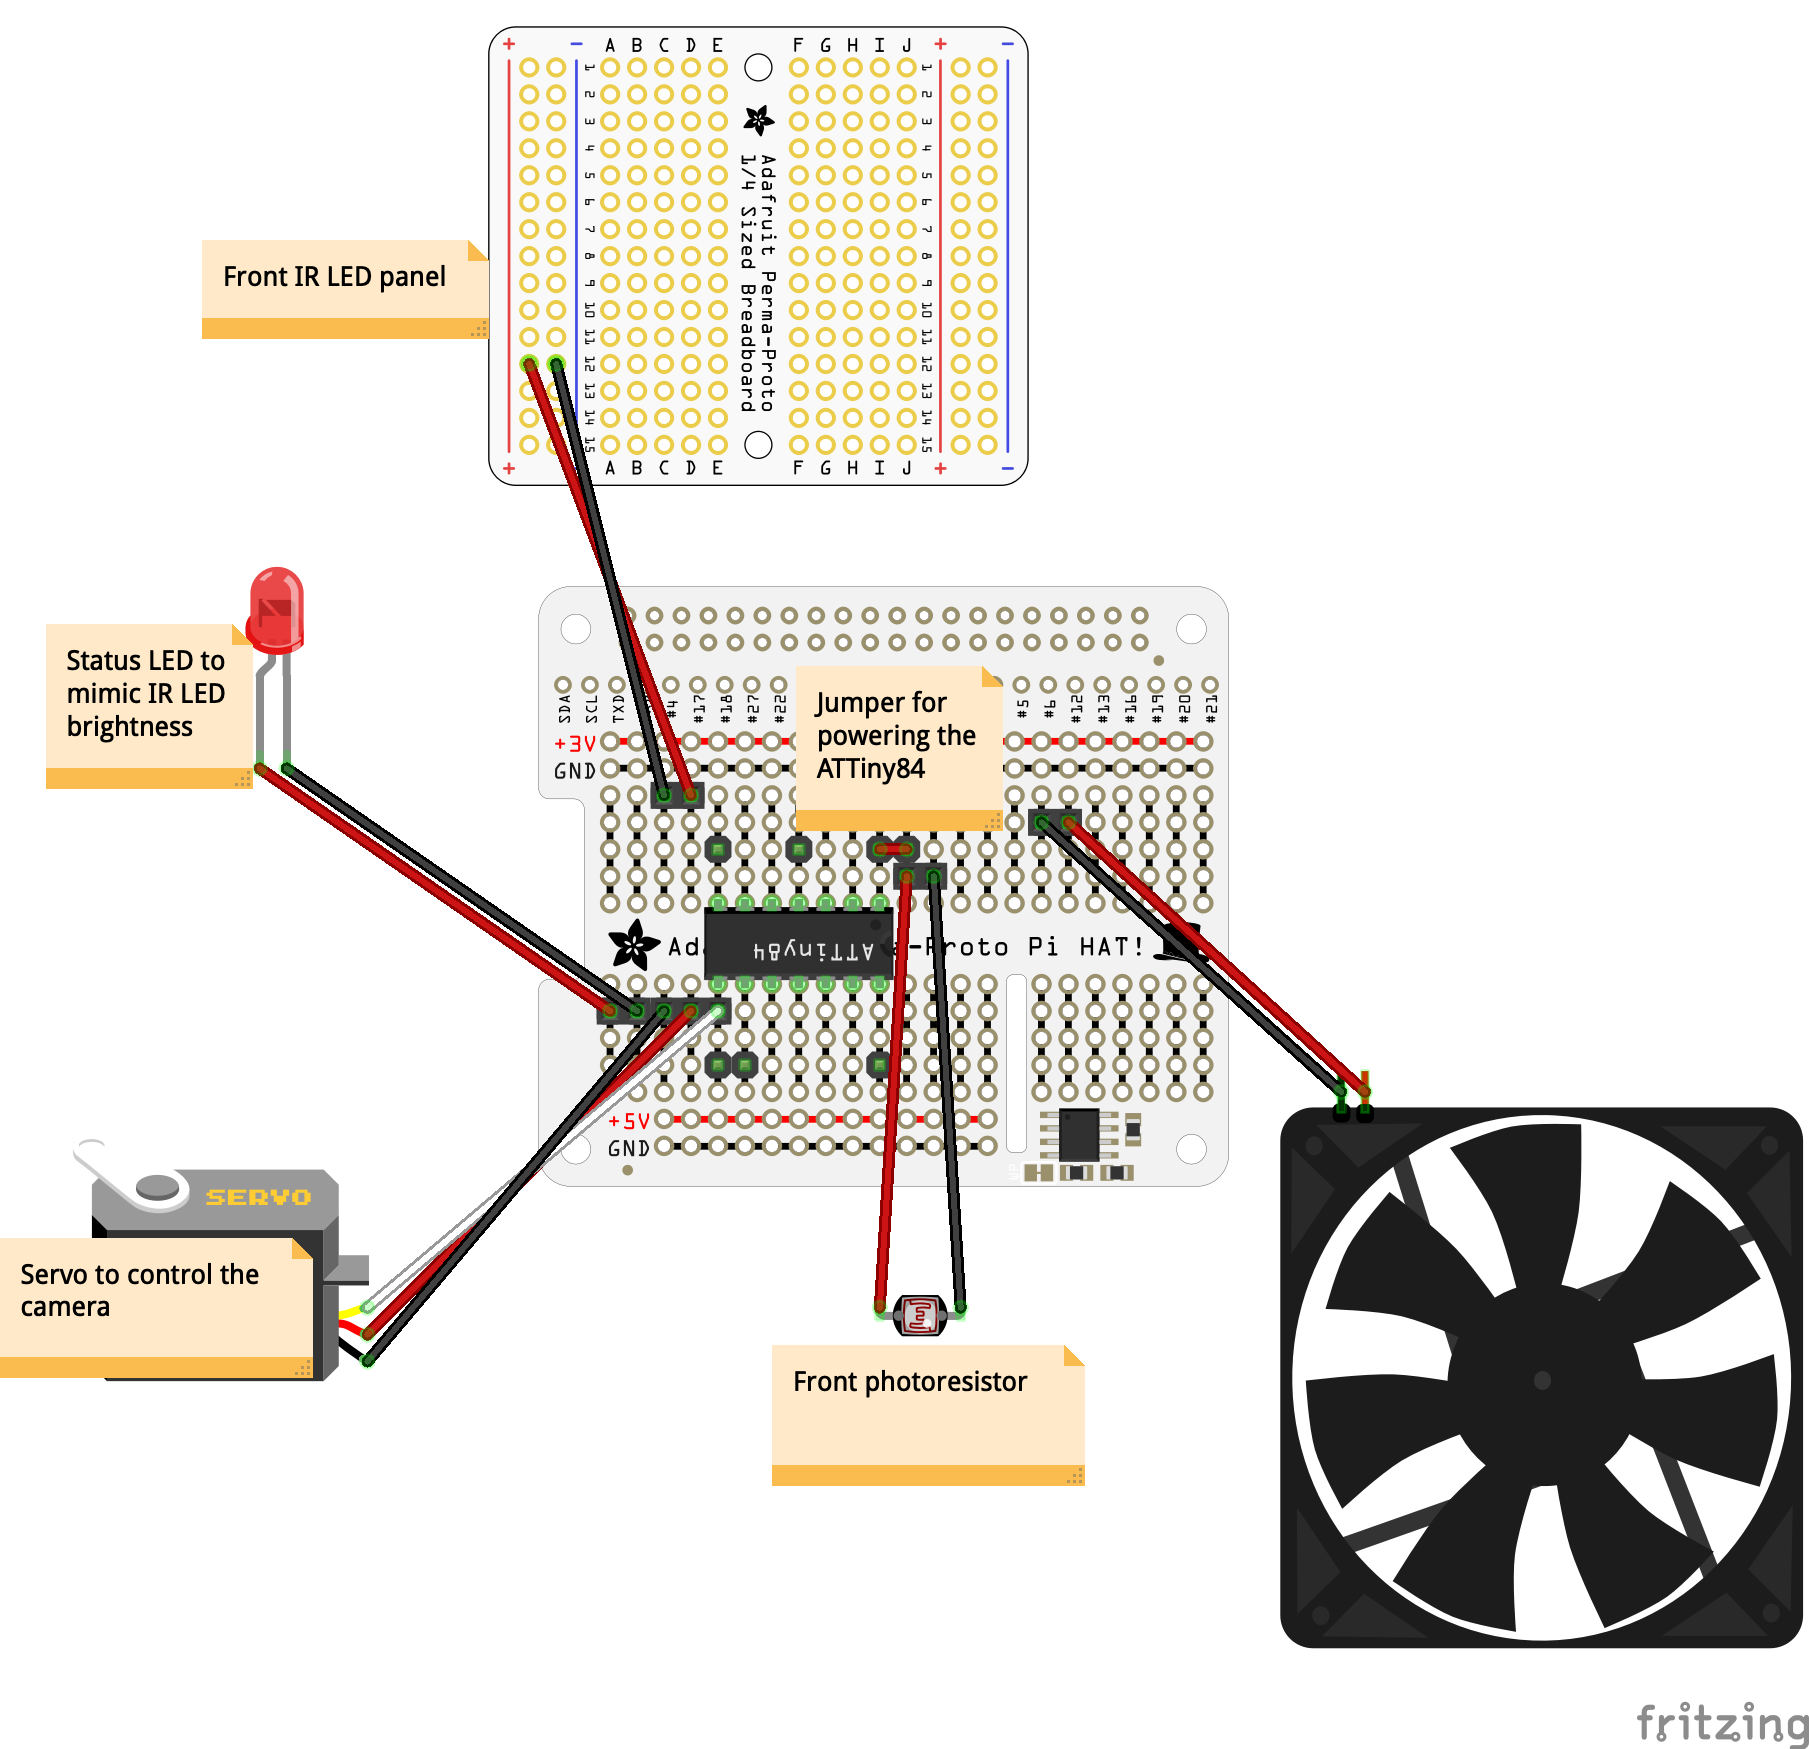
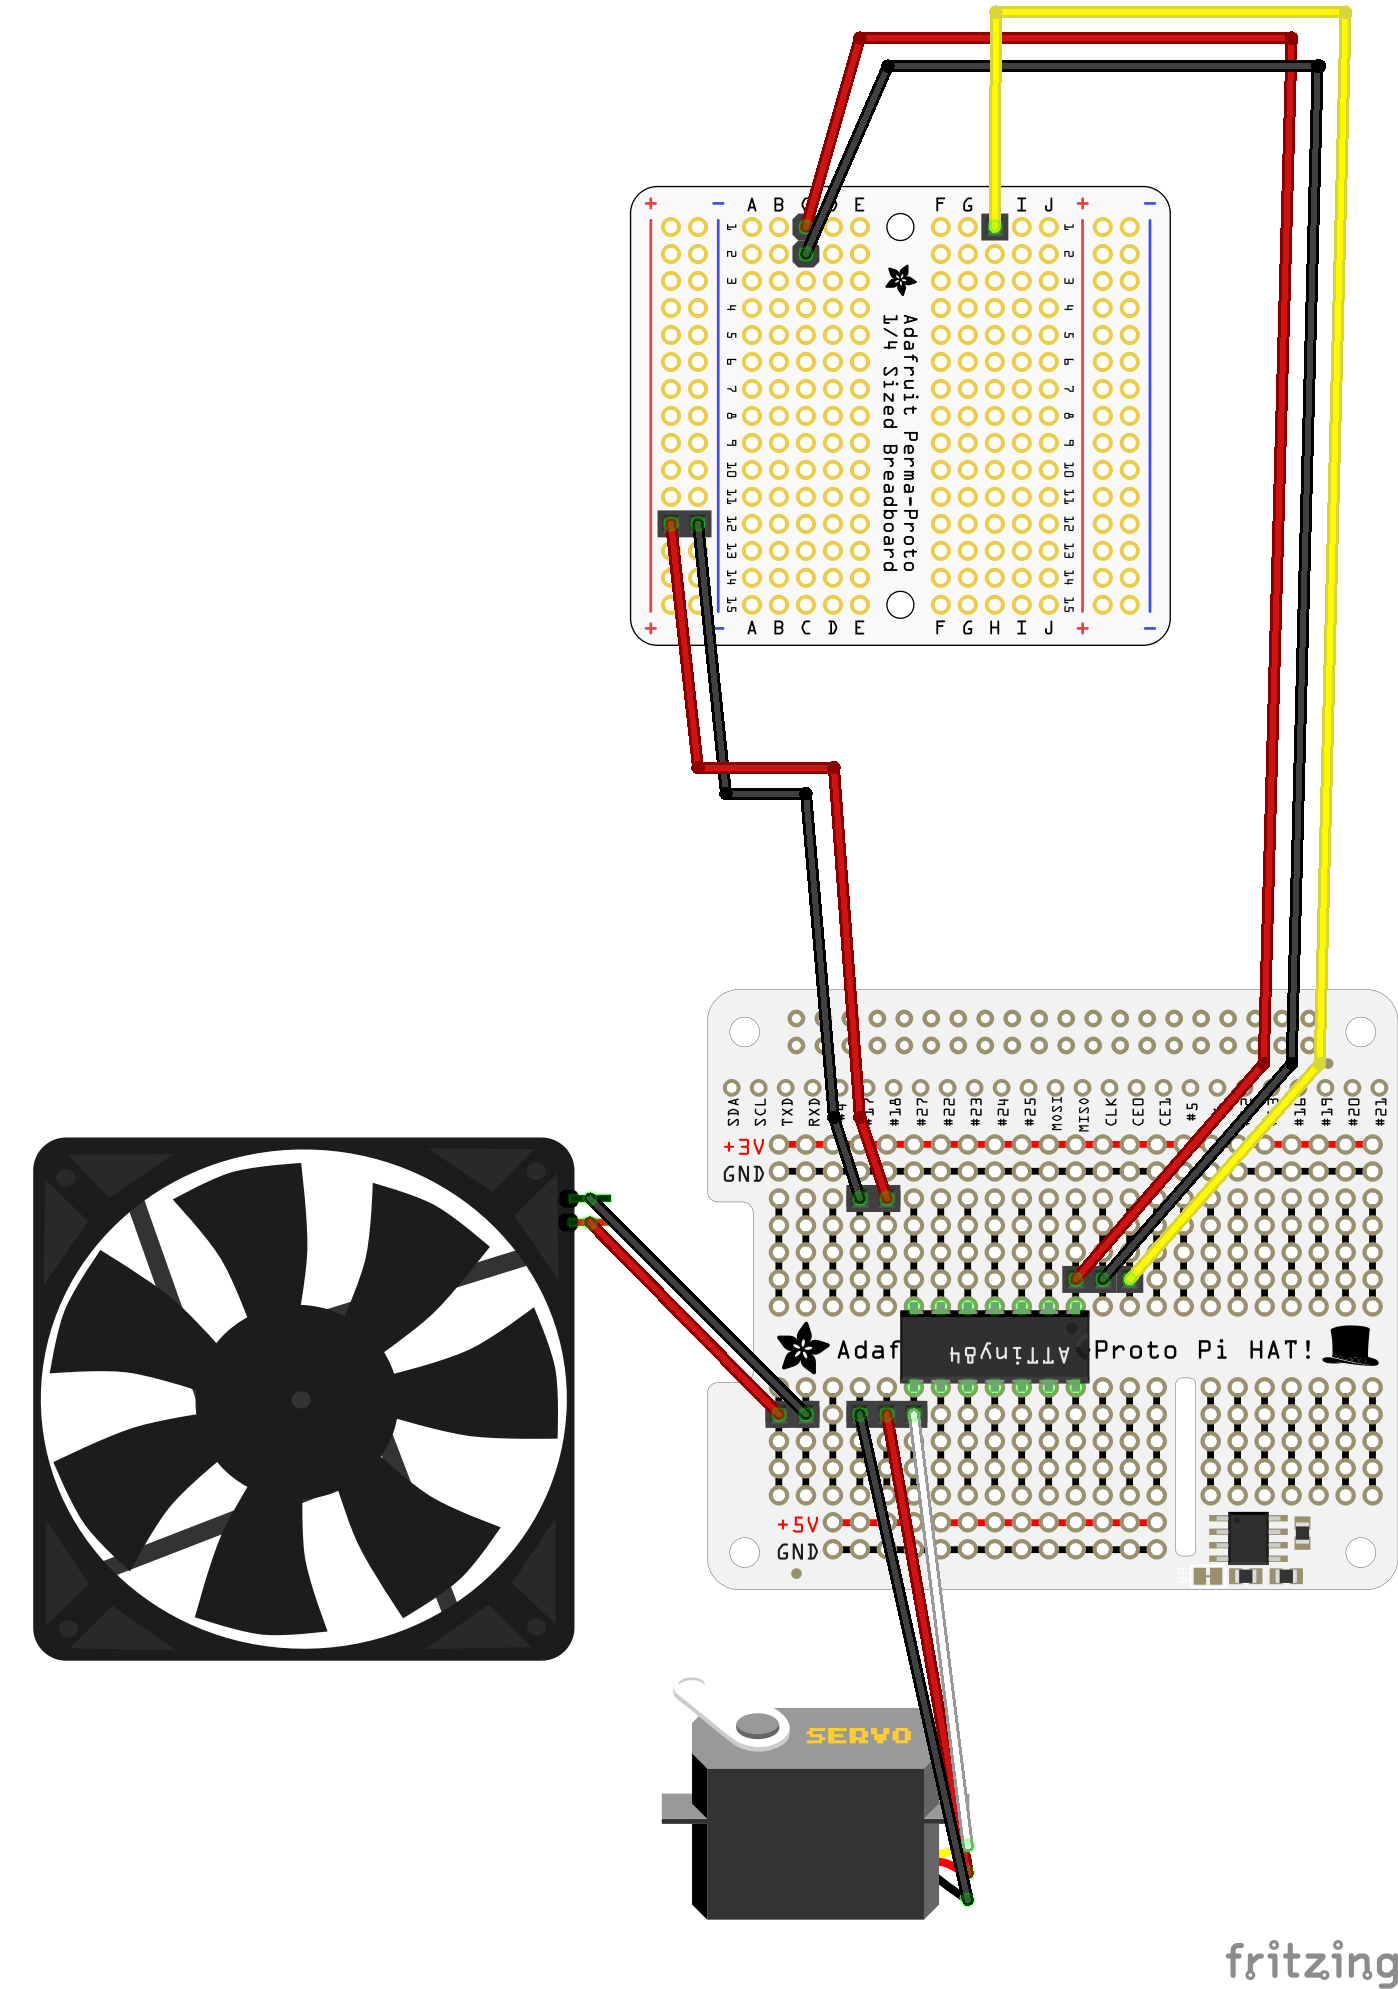
Updating hardware for v3 case.

diff --git a/ancillary/hardware/README.md b/ancillary/hardware/README.md
@@ -15,28 +15,29 @@ The Perma-Proto HAT sits on top of the Raspberry Pi and contains ports to run th
 
 _I'm not an electrical engineer, but this setup has worked well for me._
 
-<img src="./images/HAT.png" width="350"> <img src="./images/assembled.jpg" width="350">
+<img src="./images/HAT.png" width="350"> <img src="./images/assembled.jpg" width="500">
 
-Extra connectors are included in the diagram for reprogramming over ISP once the board is installed onto the Pi. These connectors are on pins 1, 4, 7, 8, 9, and 14. The pins for the ATTiny84 are broken down [here](https://github.com/SpenceKonde/ATTinyCore/blob/master/avr/extras/ATtiny_x4.md). In this setup, there is a jumper that connects the ATTiny84 to the 3V rail of the Pi. For ISP, this jumper must be removed to connect the positive ISP cable to pin 1, which will power the microcontroller. This avoids backpowering or damaging the Pi when programming with a 5V Arduino.
+Lines to the Raspberry Pi's GPIO pins 17, 27, 22, and 23 are included for ICSP reprogramming of the ATTiny84. This way you don't need to take apart the case to update the microcontroller's software. The pins for the ATTiny84 are broken down [here](https://github.com/SpenceKonde/ATTinyCore/blob/master/avr/extras/ATtiny_x4.md).
 
-The microcontroller and photoresistor are powered from the 3V rail. The LEDs, case fan, and servo are powered off of the Pi's 5V rail. For the LEDs, I used a 2N2222 NPN transistor to power from 5V. For the case fan, I used a C1815 NPN transistor. You could use two 2N2222 transistors if you swap the collector and base pins for the fan. Anything will work here as long as the transistor can handle the power requirements of the fan and the power & PWM frequency requirements of the front IR panel.
+The microcontroller, photoresistor, and status LED are all powered from the 3V rail. The IR LEDs, case fan, and servo are powered from Pi's 5V rail. There are two transistors on the board that are both used as "full on" switches. One transistor can turn the fan on and off from the Pi's GPIO pin 5. The other transistor is connected to the ground line for all of the LEDs. Its base pin is connected to PWM pin 6 on the ATTiny84. This allows the microcontroller to adjust the brightness of all the LEDs. Both transistors are NPN S8050's which can handle the high power requirements of the front panel. Anything can work here as long as the transistors can handle the power requirements.
 
-The fan's circuit is the only component on the board directly controlled by the Pi. Watchtower uses [Icebox](https://github.com/johnnewman/icebox/) to control the fan. This is automatically installed using Watchtower's install script.
+Watchtower uses [Icebox](https://github.com/johnnewman/icebox/) to control the fan. This is automatically installed using Watchtower's install script. Icebox will power on the fan only when the SoC temperature reaches a certain threshold. Once the SoC cools back down, the fan will be powered off.
 
-A decoupling capacitor is on the 3V line to help mitigate noise or voltage drop that might occur while the device is running. [ATTinyCore](https://github.com/SpenceKonde/ATTinyCore) recommends a 0.1uF capacitor. A ceramic capacitor is best since it has the fastest response to voltage changes.
+All lines between the Pi and the Microcontroller (serial and ICSP) are connected to a 10kΩ resistor. This keeps the lines from pulling more than 0.33mA.
+
+A decoupling capacitor is located on the 3V line to help mitigate noise or voltage drop that might occur while the device is running. [ATTinyCore](https://github.com/SpenceKonde/ATTinyCore) recommends a 0.1uF capacitor. A ceramic capacitor is best since it has the fastest response to voltage changes.
 
 #### Power Requirements
 
-- The front IR panel consumes 120mA of power when using 20mA LEDs.
-   - There are 14 infrared LEDs total. Of those, there are 4 parallel circuits that contain 3 LEDs in series. With 20mA LEDS, those 4 parallel circuits pull 80mA. The remaining two LEDs pull 40mA.
+- The front IR panel consumes around 400mA of power when using 100mA IR LEDs.
+   - There are 12 infrared LEDs total. Of those, there are 4 parallel circuits that contain 3 LEDs in series. With 100mA LEDS, those 4 parallel circuits pull 400mA. The status LED only pulls 3mA.
 - The 30x30mm fan I am using has a current draw of 120mA.
-- The status LED draws 20mA of power.
 - A Pi 3B+ [typical draw is 500mA](https://www.raspberrypi.org/documentation/hardware/raspberrypi/power/README.md). Under stress, [this can average 850mA](https://www.raspberrypi.org/documentation/faqs/#power).
 - The Pi Camera pulls 250mA.
 
-120mA IR + 120mA fan + 20mA LED + 850mA Pi 3B + 250mA Camera = **1360mA total**.
+400mA IR + 120mA fan + 850mA Pi 3B + 250mA Camera = **1620mA total**.
 
-This isn't factoring in the ATTiny84's current needs at 3V, but this should be negligible (5-10mA). A 2500mA power supply will have plenty of headroom for the micro servo, which will be running in short bursts and will have very little physical resistance when it moves.
+This isn't factoring in the ATTiny84's current draw at 3V, but this should be negligible. A 2500mA power supply will have plenty of headroom for the micro servo, which will be running in short bursts and will have very little physical resistance when it moves.
 
 #### Full diagram:
 ![Full diagram](./images/full_assembly.png)
